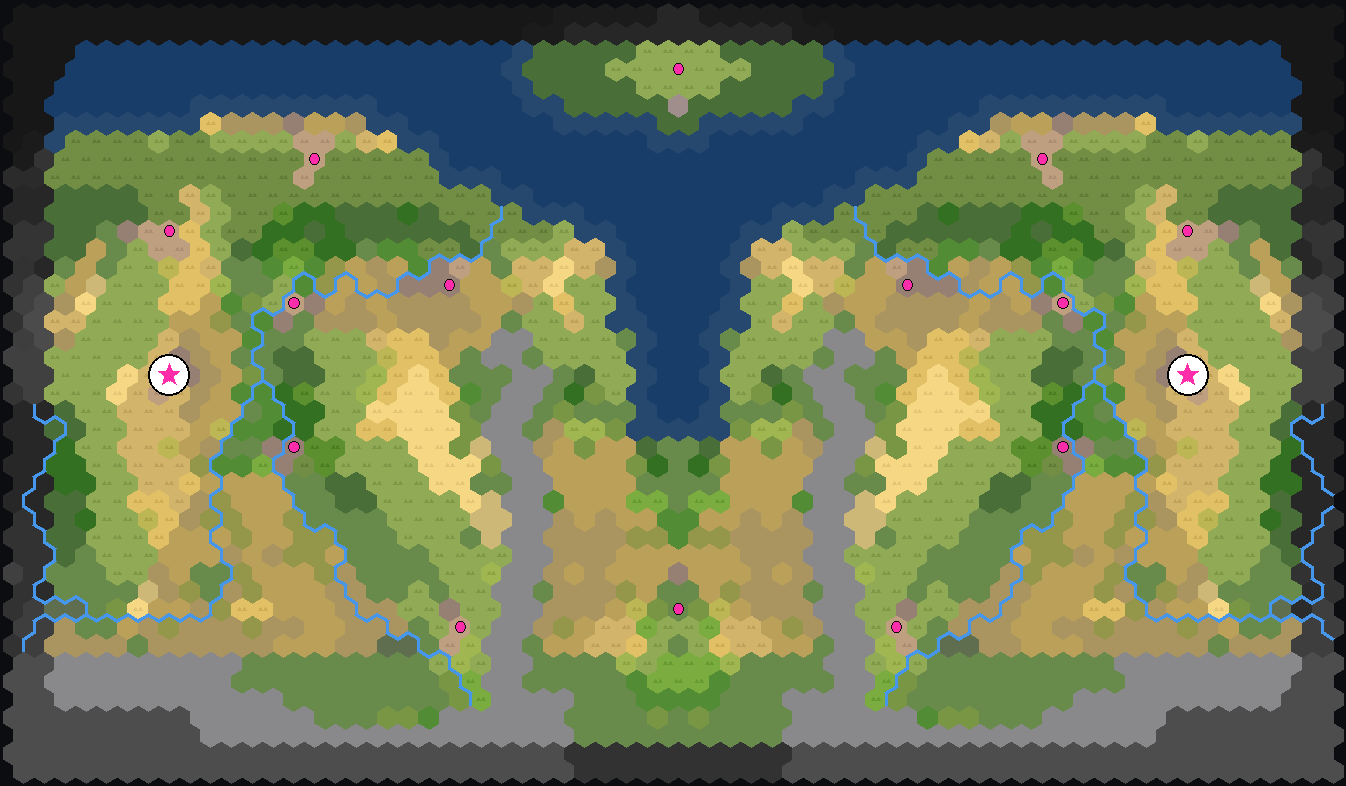
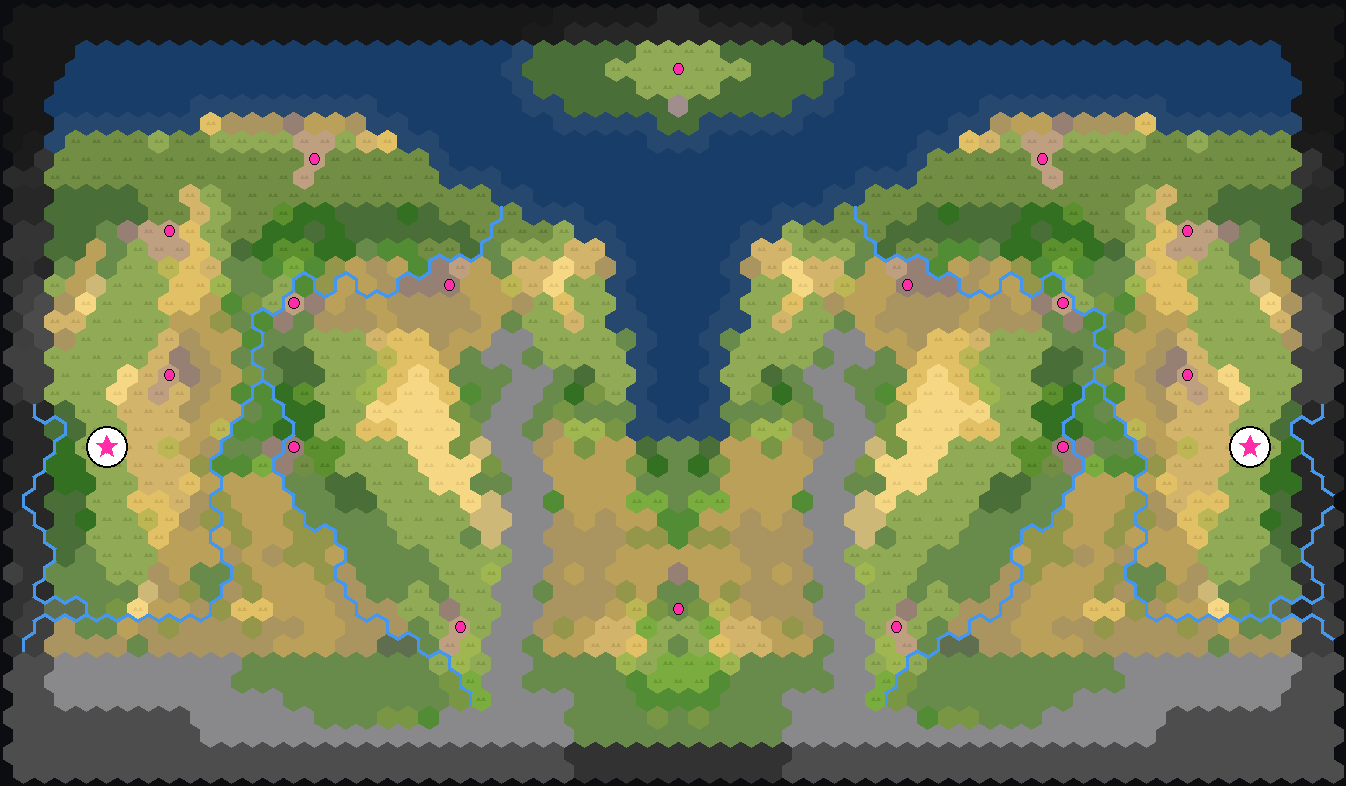
Fix in-game map generation failure: impossible IsValidPlayerStart
The previous commit required player starts to land ON an existing city
site. But DefaultMapScript.IsValidPlayerStart itself calls
IsValidCitySite, which rejects tiles that already HAVE a site — the two
conditions are mutually exclusive, so no tile on the map was a valid
start and in-game generation failed every time ('Failed to generate
map'). owmapgen's start-placement path doesn't consult the hook, which
hid the bug locally. The hook now only rejects island/corridor tiles.

diff --git a/atlas/index.html b/atlas/index.html
@@ -34,7 +34,7 @@ h1 { margin: 0 0 4px; font: 600 18px/1.2 ui-monospace, Menlo, monospace;
 <header><h1>Caldera Bay — Climate Atlas</h1>
 <div class="sub">8 Mediterranean · 8 Temperate · 8 Northern (same seeds 1–8 per regime) ·
 <code>Climate (latitude)</code> map option</div></header>
-<h2 class="section">Mediterranean (warm) — 8 gens</h2><div class="grid"><div class="card"><img src="maps/Caldera_Bay_smallest_Mediterranean-1.png" loading="lazy"><div class="meta"><div class="seed">seed Mediterranean-1</div><div class="chips"><span class="chip">64×43</span><span class="chip">14% flat-lush</span><span class="chip">water 653</span><span class="chip">mtn 395</span><span class="chip bad">rivers 179</span><span class="chip bad">forest 409</span><span class="chip ok">2 starts</span><span class="chip ok">mirror-sym</span><span class="chip">sites 16</span><span class="chip">tribes 12</span><span class="chip">res 84</span></div></div></div><div class="card"><img src="maps/Caldera_Bay_smallest_Mediterranean-2.png" loading="lazy"><div class="meta"><div class="seed">seed Mediterranean-2</div><div class="chips"><span class="chip">64×43</span><span class="chip">10% flat-lush</span><span class="chip">water 547</span><span class="chip">mtn 359</span><span class="chip bad">rivers 215</span><span class="chip bad">forest 408</span><span class="chip ok">2 starts</span><span class="chip ok">mirror-sym</span><span class="chip">sites 16</span><span class="chip">tribes 12</span><span class="chip">res 90</span></div></div></div><div class="card"><img src="maps/Caldera_Bay_smallest_Mediterranean-3.png" loading="lazy"><div class="meta"><div class="seed">seed Mediterranean-3</div><div class="chips"><span class="chip">64×43</span><span class="chip">18% flat-lush</span><span class="chip">water 600</span><span class="chip">mtn 309</span><span class="chip bad">rivers 174</span><span class="chip bad">forest 293</span><span class="chip ok">2 starts</span><span class="chip ok">mirror-sym</span><span class="chip">sites 14</span><span class="chip">tribes 10</span><span class="chip">res 96</span></div></div></div><div class="card"><img src="maps/Caldera_Bay_smallest_Mediterranean-4.png" loading="lazy"><div class="meta"><div class="seed">seed Mediterranean-4</div><div class="chips"><span class="chip">64×43</span><span class="chip">12% flat-lush</span><span class="chip">water 512</span><span class="chip">mtn 422</span><span class="chip bad">rivers 218</span><span class="chip bad">forest 390</span><span class="chip ok">2 starts</span><span class="chip ok">mirror-sym</span><span class="chip">sites 16</span><span class="chip">tribes 12</span><span class="chip">res 126</span></div></div></div><div class="card"><img src="maps/Caldera_Bay_smallest_Mediterranean-5.png" loading="lazy"><div class="meta"><div class="seed">seed Mediterranean-5</div><div class="chips"><span class="chip">64×43</span><span class="chip">9% flat-lush</span><span class="chip">water 607</span><span class="chip">mtn 385</span><span class="chip bad">rivers 218</span><span class="chip bad">forest 406</span><span class="chip ok">2 starts</span><span class="chip ok">mirror-sym</span><span class="chip">sites 16</span><span class="chip">tribes 12</span><span class="chip">res 88</span></div></div></div><div class="card"><img src="maps/Caldera_Bay_smallest_Mediterranean-6.png" loading="lazy"><div class="meta"><div class="seed">seed Mediterranean-6</div><div class="chips"><span class="chip">64×43</span><span class="chip">13% flat-lush</span><span class="chip">water 534</span><span class="chip">mtn 309</span><span class="chip bad">rivers 229</span><span class="chip bad">forest 363</span><span class="chip ok">2 starts</span><span class="chip ok">mirror-sym</span><span class="chip">sites 16</span><span class="chip">tribes 12</span><span class="chip">res 115</span></div></div></div><div class="card"><img src="maps/Caldera_Bay_smallest_Mediterranean-7.png" loading="lazy"><div class="meta"><div class="seed">seed Mediterranean-7</div><div class="chips"><span class="chip">64×43</span><span class="chip">17% flat-lush</span><span class="chip">water 543</span><span class="chip">mtn 311</span><span class="chip bad">rivers 218</span><span class="chip bad">forest 368</span><span class="chip ok">2 starts</span><span class="chip ok">mirror-sym</span><span class="chip">sites 16</span><span class="chip">tribes 12</span><span class="chip">res 114</span></div></div></div><div class="card"><img src="maps/Caldera_Bay_smallest_Mediterranean-8.png" loading="lazy"><div class="meta"><div class="seed">seed Mediterranean-8</div><div class="chips"><span class="chip">64×43</span><span class="chip">13% flat-lush</span><span class="chip">water 610</span><span class="chip">mtn 373</span><span class="chip bad">rivers 186</span><span class="chip bad">forest 318</span><span class="chip ok">2 starts</span><span class="chip ok">mirror-sym</span><span class="chip">sites 16</span><span class="chip">tribes 12</span><span class="chip">res 92</span></div></div></div></div><h2 class="section">Temperate — 8 gens</h2><div class="grid"><div class="card"><img src="maps/Caldera_Bay_smallest_Temperate-1.png" loading="lazy"><div class="meta"><div class="seed">seed Temperate-1</div><div class="chips"><span class="chip">64×43</span><span class="chip">15% flat-lush</span><span class="chip">water 653</span><span class="chip">mtn 395</span><span class="chip bad">rivers 179</span><span class="chip bad">forest 455</span><span class="chip ok">2 starts</span><span class="chip ok">mirror-sym</span><span class="chip">sites 16</span><span class="chip">tribes 12</span><span class="chip">res 84</span></div></div></div><div class="card"><img src="maps/Caldera_Bay_smallest_Temperate-2.png" loading="lazy"><div class="meta"><div class="seed">seed Temperate-2</div><div class="chips"><span class="chip">64×43</span><span class="chip">12% flat-lush</span><span class="chip">water 547</span><span class="chip">mtn 359</span><span class="chip bad">rivers 215</span><span class="chip bad">forest 495</span><span class="chip ok">2 starts</span><span class="chip ok">mirror-sym</span><span class="chip">sites 16</span><span class="chip">tribes 12</span><span class="chip">res 102</span></div></div></div><div class="card"><img src="maps/Caldera_Bay_smallest_Temperate-3.png" loading="lazy"><div class="meta"><div class="seed">seed Temperate-3</div><div class="chips"><span class="chip">64×43</span><span class="chip">18% flat-lush</span><span class="chip">water 600</span><span class="chip">mtn 311</span><span class="chip bad">rivers 174</span><span class="chip bad">forest 297</span><span class="chip ok">2 starts</span><span class="chip ok">mirror-sym</span><span class="chip">sites 16</span><span class="chip">tribes 12</span><span class="chip">res 98</span></div></div></div><div class="card"><img src="maps/Caldera_Bay_smallest_Temperate-4.png" loading="lazy"><div class="meta"><div class="seed">seed Temperate-4</div><div class="chips"><span class="chip">64×43</span><span class="chip">12% flat-lush</span><span class="chip">water 512</span><span class="chip">mtn 422</span><span class="chip bad">rivers 218</span><span class="chip bad">forest 425</span><span class="chip ok">2 starts</span><span class="chip ok">mirror-sym</span><span class="chip">sites 16</span><span class="chip">tribes 12</span><span class="chip">res 119</span></div></div></div><div class="card"><img src="maps/Caldera_Bay_smallest_Temperate-5.png" loading="lazy"><div class="meta"><div class="seed">seed Temperate-5</div><div class="chips"><span class="chip">64×43</span><span class="chip">9% flat-lush</span><span class="chip">water 607</span><span class="chip">mtn 385</span><span class="chip bad">rivers 218</span><span class="chip bad">forest 485</span><span class="chip ok">2 starts</span><span class="chip ok">mirror-sym</span><span class="chip">sites 16</span><span class="chip">tribes 12</span><span class="chip">res 113</span></div></div></div><div class="card"><img src="maps/Caldera_Bay_smallest_Temperate-6.png" loading="lazy"><div class="meta"><div class="seed">seed Temperate-6</div><div class="chips"><span class="chip">64×43</span><span class="chip">14% flat-lush</span><span class="chip">water 534</span><span class="chip">mtn 309</span><span class="chip bad">rivers 229</span><span class="chip bad">forest 392</span><span class="chip ok">2 starts</span><span class="chip ok">mirror-sym</span><span class="chip">sites 16</span><span class="chip">tribes 12</span><span class="chip">res 108</span></div></div></div><div class="card"><img src="maps/Caldera_Bay_smallest_Temperate-7.png" loading="lazy"><div class="meta"><div class="seed">seed Temperate-7</div><div class="chips"><span class="chip">64×43</span><span class="chip">18% flat-lush</span><span class="chip">water 543</span><span class="chip">mtn 311</span><span class="chip bad">rivers 218</span><span class="chip bad">forest 382</span><span class="chip ok">2 starts</span><span class="chip ok">mirror-sym</span><span class="chip">sites 16</span><span class="chip">tribes 12</span><span class="chip">res 107</span></div></div></div><div class="card"><img src="maps/Caldera_Bay_smallest_Temperate-8.png" loading="lazy"><div class="meta"><div class="seed">seed Temperate-8</div><div class="chips"><span class="chip">64×43</span><span class="chip">14% flat-lush</span><span class="chip">water 610</span><span class="chip">mtn 375</span><span class="chip bad">rivers 186</span><span class="chip bad">forest 372</span><span class="chip ok">2 starts</span><span class="chip ok">mirror-sym</span><span class="chip">sites 16</span><span class="chip">tribes 12</span><span class="chip">res 110</span></div></div></div></div><h2 class="section">Northern (cold) — 8 gens</h2><div class="grid"><div class="card"><img src="maps/Caldera_Bay_smallest_Northern-1.png" loading="lazy"><div class="meta"><div class="seed">seed Northern-1</div><div class="chips"><span class="chip">64×43</span><span class="chip">14% flat-lush</span><span class="chip">water 653</span><span class="chip">mtn 395</span><span class="chip bad">rivers 179</span><span class="chip bad">forest 443</span><span class="chip ok">2 starts</span><span class="chip ok">mirror-sym</span><span class="chip">sites 16</span><span class="chip">tribes 12</span><span class="chip">res 115</span></div></div></div><div class="card"><img src="maps/Caldera_Bay_smallest_Northern-2.png" loading="lazy"><div class="meta"><div class="seed">seed Northern-2</div><div class="chips"><span class="chip">64×43</span><span class="chip">8% flat-lush</span><span class="chip">water 547</span><span class="chip">mtn 359</span><span class="chip bad">rivers 215</span><span class="chip bad">forest 501</span><span class="chip ok">2 starts</span><span class="chip ok">mirror-sym</span><span class="chip">sites 16</span><span class="chip">tribes 12</span><span class="chip">res 88</span></div></div></div><div class="card"><img src="maps/Caldera_Bay_smallest_Northern-3.png" loading="lazy"><div class="meta"><div class="seed">seed Northern-3</div><div class="chips"><span class="chip">64×43</span><span class="chip">18% flat-lush</span><span class="chip">water 600</span><span class="chip">mtn 309</span><span class="chip bad">rivers 174</span><span class="chip bad">forest 291</span><span class="chip ok">2 starts</span><span class="chip ok">mirror-sym</span><span class="chip">sites 16</span><span class="chip">tribes 12</span><span class="chip">res 114</span></div></div></div><div class="card"><img src="maps/Caldera_Bay_smallest_Northern-4.png" loading="lazy"><div class="meta"><div class="seed">seed Northern-4</div><div class="chips"><span class="chip">64×43</span><span class="chip">12% flat-lush</span><span class="chip">water 512</span><span class="chip">mtn 422</span><span class="chip bad">rivers 218</span><span class="chip bad">forest 425</span><span class="chip ok">2 starts</span><span class="chip ok">mirror-sym</span><span class="chip">sites 16</span><span class="chip">tribes 12</span><span class="chip">res 104</span></div></div></div><div class="card"><img src="maps/Caldera_Bay_smallest_Northern-5.png" loading="lazy"><div class="meta"><div class="seed">seed Northern-5</div><div class="chips"><span class="chip">64×43</span><span class="chip">9% flat-lush</span><span class="chip">water 607</span><span class="chip">mtn 385</span><span class="chip bad">rivers 218</span><span class="chip bad">forest 465</span><span class="chip ok">2 starts</span><span class="chip ok">mirror-sym</span><span class="chip">sites 16</span><span class="chip">tribes 12</span><span class="chip">res 108</span></div></div></div><div class="card"><img src="maps/Caldera_Bay_smallest_Northern-6.png" loading="lazy"><div class="meta"><div class="seed">seed Northern-6</div><div class="chips"><span class="chip">64×43</span><span class="chip">13% flat-lush</span><span class="chip">water 534</span><span class="chip">mtn 309</span><span class="chip bad">rivers 229</span><span class="chip bad">forest 390</span><span class="chip ok">2 starts</span><span class="chip ok">mirror-sym</span><span class="chip">sites 16</span><span class="chip">tribes 12</span><span class="chip">res 125</span></div></div></div><div class="card"><img src="maps/Caldera_Bay_smallest_Northern-7.png" loading="lazy"><div class="meta"><div class="seed">seed Northern-7</div><div class="chips"><span class="chip">64×43</span><span class="chip">17% flat-lush</span><span class="chip">water 543</span><span class="chip">mtn 311</span><span class="chip bad">rivers 218</span><span class="chip bad">forest 366</span><span class="chip ok">2 starts</span><span class="chip ok">mirror-sym</span><span class="chip">sites 16</span><span class="chip">tribes 12</span><span class="chip">res 118</span></div></div></div><div class="card"><img src="maps/Caldera_Bay_smallest_Northern-8.png" loading="lazy"><div class="meta"><div class="seed">seed Northern-8</div><div class="chips"><span class="chip">64×43</span><span class="chip">13% flat-lush</span><span class="chip">water 610</span><span class="chip">mtn 375</span><span class="chip bad">rivers 186</span><span class="chip bad">forest 358</span><span class="chip ok">2 starts</span><span class="chip ok">mirror-sym</span><span class="chip">sites 16</span><span class="chip">tribes 12</span><span class="chip">res 111</span></div></div></div></div>
+<h2 class="section">Mediterranean (warm) — 8 gens</h2><div class="grid"><div class="card"><img src="maps/Caldera_Bay_smallest_Mediterranean-1.png" loading="lazy"><div class="meta"><div class="seed">seed Mediterranean-1</div><div class="chips"><span class="chip">64×43</span><span class="chip">14% flat-lush</span><span class="chip">water 653</span><span class="chip">mtn 395</span><span class="chip bad">rivers 179</span><span class="chip bad">forest 409</span><span class="chip ok">2 starts</span><span class="chip ok">mirror-sym</span><span class="chip">sites 18</span><span class="chip">tribes 12</span><span class="chip">res 84</span></div></div></div><div class="card"><img src="maps/Caldera_Bay_smallest_Mediterranean-2.png" loading="lazy"><div class="meta"><div class="seed">seed Mediterranean-2</div><div class="chips"><span class="chip">64×43</span><span class="chip">10% flat-lush</span><span class="chip">water 547</span><span class="chip">mtn 359</span><span class="chip bad">rivers 215</span><span class="chip bad">forest 408</span><span class="chip ok">2 starts</span><span class="chip ok">mirror-sym</span><span class="chip">sites 16</span><span class="chip">tribes 12</span><span class="chip">res 90</span></div></div></div><div class="card"><img src="maps/Caldera_Bay_smallest_Mediterranean-3.png" loading="lazy"><div class="meta"><div class="seed">seed Mediterranean-3</div><div class="chips"><span class="chip">64×43</span><span class="chip">18% flat-lush</span><span class="chip">water 600</span><span class="chip">mtn 309</span><span class="chip bad">rivers 174</span><span class="chip bad">forest 293</span><span class="chip ok">2 starts</span><span class="chip ok">mirror-sym</span><span class="chip">sites 16</span><span class="chip">tribes 10</span><span class="chip">res 96</span></div></div></div><div class="card"><img src="maps/Caldera_Bay_smallest_Mediterranean-4.png" loading="lazy"><div class="meta"><div class="seed">seed Mediterranean-4</div><div class="chips"><span class="chip">64×43</span><span class="chip">12% flat-lush</span><span class="chip">water 512</span><span class="chip">mtn 422</span><span class="chip bad">rivers 218</span><span class="chip bad">forest 390</span><span class="chip ok">2 starts</span><span class="chip ok">mirror-sym</span><span class="chip">sites 18</span><span class="chip">tribes 12</span><span class="chip">res 126</span></div></div></div><div class="card"><img src="maps/Caldera_Bay_smallest_Mediterranean-5.png" loading="lazy"><div class="meta"><div class="seed">seed Mediterranean-5</div><div class="chips"><span class="chip">64×43</span><span class="chip">9% flat-lush</span><span class="chip">water 607</span><span class="chip">mtn 385</span><span class="chip bad">rivers 218</span><span class="chip bad">forest 406</span><span class="chip ok">2 starts</span><span class="chip ok">mirror-sym</span><span class="chip">sites 16</span><span class="chip">tribes 12</span><span class="chip">res 88</span></div></div></div><div class="card"><img src="maps/Caldera_Bay_smallest_Mediterranean-6.png" loading="lazy"><div class="meta"><div class="seed">seed Mediterranean-6</div><div class="chips"><span class="chip">64×43</span><span class="chip">13% flat-lush</span><span class="chip">water 534</span><span class="chip">mtn 309</span><span class="chip bad">rivers 229</span><span class="chip bad">forest 363</span><span class="chip ok">2 starts</span><span class="chip ok">mirror-sym</span><span class="chip">sites 16</span><span class="chip">tribes 12</span><span class="chip">res 115</span></div></div></div><div class="card"><img src="maps/Caldera_Bay_smallest_Mediterranean-7.png" loading="lazy"><div class="meta"><div class="seed">seed Mediterranean-7</div><div class="chips"><span class="chip">64×43</span><span class="chip">17% flat-lush</span><span class="chip">water 543</span><span class="chip">mtn 311</span><span class="chip bad">rivers 218</span><span class="chip bad">forest 368</span><span class="chip ok">2 starts</span><span class="chip ok">mirror-sym</span><span class="chip">sites 16</span><span class="chip">tribes 12</span><span class="chip">res 114</span></div></div></div><div class="card"><img src="maps/Caldera_Bay_smallest_Mediterranean-8.png" loading="lazy"><div class="meta"><div class="seed">seed Mediterranean-8</div><div class="chips"><span class="chip">64×43</span><span class="chip">13% flat-lush</span><span class="chip">water 610</span><span class="chip">mtn 373</span><span class="chip bad">rivers 186</span><span class="chip bad">forest 318</span><span class="chip ok">2 starts</span><span class="chip ok">mirror-sym</span><span class="chip">sites 18</span><span class="chip">tribes 12</span><span class="chip">res 92</span></div></div></div></div><h2 class="section">Temperate — 8 gens</h2><div class="grid"><div class="card"><img src="maps/Caldera_Bay_smallest_Temperate-1.png" loading="lazy"><div class="meta"><div class="seed">seed Temperate-1</div><div class="chips"><span class="chip">64×43</span><span class="chip">15% flat-lush</span><span class="chip">water 653</span><span class="chip">mtn 395</span><span class="chip bad">rivers 179</span><span class="chip bad">forest 455</span><span class="chip ok">2 starts</span><span class="chip ok">mirror-sym</span><span class="chip">sites 16</span><span class="chip">tribes 12</span><span class="chip">res 84</span></div></div></div><div class="card"><img src="maps/Caldera_Bay_smallest_Temperate-2.png" loading="lazy"><div class="meta"><div class="seed">seed Temperate-2</div><div class="chips"><span class="chip">64×43</span><span class="chip">12% flat-lush</span><span class="chip">water 547</span><span class="chip">mtn 359</span><span class="chip bad">rivers 215</span><span class="chip bad">forest 495</span><span class="chip ok">2 starts</span><span class="chip ok">mirror-sym</span><span class="chip">sites 16</span><span class="chip">tribes 12</span><span class="chip">res 102</span></div></div></div><div class="card"><img src="maps/Caldera_Bay_smallest_Temperate-3.png" loading="lazy"><div class="meta"><div class="seed">seed Temperate-3</div><div class="chips"><span class="chip">64×43</span><span class="chip">18% flat-lush</span><span class="chip">water 600</span><span class="chip">mtn 311</span><span class="chip bad">rivers 174</span><span class="chip bad">forest 297</span><span class="chip ok">2 starts</span><span class="chip ok">mirror-sym</span><span class="chip">sites 18</span><span class="chip">tribes 12</span><span class="chip">res 98</span></div></div></div><div class="card"><img src="maps/Caldera_Bay_smallest_Temperate-4.png" loading="lazy"><div class="meta"><div class="seed">seed Temperate-4</div><div class="chips"><span class="chip">64×43</span><span class="chip">12% flat-lush</span><span class="chip">water 512</span><span class="chip">mtn 422</span><span class="chip bad">rivers 218</span><span class="chip bad">forest 425</span><span class="chip ok">2 starts</span><span class="chip ok">mirror-sym</span><span class="chip">sites 16</span><span class="chip">tribes 12</span><span class="chip">res 119</span></div></div></div><div class="card"><img src="maps/Caldera_Bay_smallest_Temperate-5.png" loading="lazy"><div class="meta"><div class="seed">seed Temperate-5</div><div class="chips"><span class="chip">64×43</span><span class="chip">9% flat-lush</span><span class="chip">water 607</span><span class="chip">mtn 385</span><span class="chip bad">rivers 218</span><span class="chip bad">forest 485</span><span class="chip ok">2 starts</span><span class="chip ok">mirror-sym</span><span class="chip">sites 16</span><span class="chip">tribes 12</span><span class="chip">res 113</span></div></div></div><div class="card"><img src="maps/Caldera_Bay_smallest_Temperate-6.png" loading="lazy"><div class="meta"><div class="seed">seed Temperate-6</div><div class="chips"><span class="chip">64×43</span><span class="chip">14% flat-lush</span><span class="chip">water 534</span><span class="chip">mtn 309</span><span class="chip bad">rivers 229</span><span class="chip bad">forest 392</span><span class="chip ok">2 starts</span><span class="chip ok">mirror-sym</span><span class="chip">sites 18</span><span class="chip">tribes 12</span><span class="chip">res 108</span></div></div></div><div class="card"><img src="maps/Caldera_Bay_smallest_Temperate-7.png" loading="lazy"><div class="meta"><div class="seed">seed Temperate-7</div><div class="chips"><span class="chip">64×43</span><span class="chip">18% flat-lush</span><span class="chip">water 543</span><span class="chip">mtn 311</span><span class="chip bad">rivers 218</span><span class="chip bad">forest 382</span><span class="chip ok">2 starts</span><span class="chip ok">mirror-sym</span><span class="chip">sites 16</span><span class="chip">tribes 12</span><span class="chip">res 107</span></div></div></div><div class="card"><img src="maps/Caldera_Bay_smallest_Temperate-8.png" loading="lazy"><div class="meta"><div class="seed">seed Temperate-8</div><div class="chips"><span class="chip">64×43</span><span class="chip">14% flat-lush</span><span class="chip">water 610</span><span class="chip">mtn 375</span><span class="chip bad">rivers 186</span><span class="chip bad">forest 372</span><span class="chip ok">2 starts</span><span class="chip ok">mirror-sym</span><span class="chip">sites 16</span><span class="chip">tribes 12</span><span class="chip">res 110</span></div></div></div></div><h2 class="section">Northern (cold) — 8 gens</h2><div class="grid"><div class="card"><img src="maps/Caldera_Bay_smallest_Northern-1.png" loading="lazy"><div class="meta"><div class="seed">seed Northern-1</div><div class="chips"><span class="chip">64×43</span><span class="chip">14% flat-lush</span><span class="chip">water 653</span><span class="chip">mtn 395</span><span class="chip bad">rivers 179</span><span class="chip bad">forest 443</span><span class="chip ok">2 starts</span><span class="chip ok">mirror-sym</span><span class="chip">sites 18</span><span class="chip">tribes 12</span><span class="chip">res 115</span></div></div></div><div class="card"><img src="maps/Caldera_Bay_smallest_Northern-2.png" loading="lazy"><div class="meta"><div class="seed">seed Northern-2</div><div class="chips"><span class="chip">64×43</span><span class="chip">8% flat-lush</span><span class="chip">water 547</span><span class="chip">mtn 359</span><span class="chip bad">rivers 215</span><span class="chip bad">forest 501</span><span class="chip ok">2 starts</span><span class="chip ok">mirror-sym</span><span class="chip">sites 18</span><span class="chip">tribes 12</span><span class="chip">res 88</span></div></div></div><div class="card"><img src="maps/Caldera_Bay_smallest_Northern-3.png" loading="lazy"><div class="meta"><div class="seed">seed Northern-3</div><div class="chips"><span class="chip">64×43</span><span class="chip">18% flat-lush</span><span class="chip">water 600</span><span class="chip">mtn 309</span><span class="chip bad">rivers 174</span><span class="chip bad">forest 291</span><span class="chip ok">2 starts</span><span class="chip ok">mirror-sym</span><span class="chip">sites 16</span><span class="chip">tribes 12</span><span class="chip">res 114</span></div></div></div><div class="card"><img src="maps/Caldera_Bay_smallest_Northern-4.png" loading="lazy"><div class="meta"><div class="seed">seed Northern-4</div><div class="chips"><span class="chip">64×43</span><span class="chip">12% flat-lush</span><span class="chip">water 512</span><span class="chip">mtn 422</span><span class="chip bad">rivers 218</span><span class="chip bad">forest 425</span><span class="chip ok">2 starts</span><span class="chip ok">mirror-sym</span><span class="chip">sites 18</span><span class="chip">tribes 12</span><span class="chip">res 104</span></div></div></div><div class="card"><img src="maps/Caldera_Bay_smallest_Northern-5.png" loading="lazy"><div class="meta"><div class="seed">seed Northern-5</div><div class="chips"><span class="chip">64×43</span><span class="chip">9% flat-lush</span><span class="chip">water 607</span><span class="chip">mtn 385</span><span class="chip bad">rivers 218</span><span class="chip bad">forest 465</span><span class="chip ok">2 starts</span><span class="chip ok">mirror-sym</span><span class="chip">sites 16</span><span class="chip">tribes 12</span><span class="chip">res 108</span></div></div></div><div class="card"><img src="maps/Caldera_Bay_smallest_Northern-6.png" loading="lazy"><div class="meta"><div class="seed">seed Northern-6</div><div class="chips"><span class="chip">64×43</span><span class="chip">13% flat-lush</span><span class="chip">water 534</span><span class="chip">mtn 309</span><span class="chip bad">rivers 229</span><span class="chip bad">forest 390</span><span class="chip ok">2 starts</span><span class="chip ok">mirror-sym</span><span class="chip">sites 18</span><span class="chip">tribes 12</span><span class="chip">res 125</span></div></div></div><div class="card"><img src="maps/Caldera_Bay_smallest_Northern-7.png" loading="lazy"><div class="meta"><div class="seed">seed Northern-7</div><div class="chips"><span class="chip">64×43</span><span class="chip">17% flat-lush</span><span class="chip">water 543</span><span class="chip">mtn 311</span><span class="chip bad">rivers 218</span><span class="chip bad">forest 366</span><span class="chip ok">2 starts</span><span class="chip ok">mirror-sym</span><span class="chip">sites 16</span><span class="chip">tribes 12</span><span class="chip">res 118</span></div></div></div><div class="card"><img src="maps/Caldera_Bay_smallest_Northern-8.png" loading="lazy"><div class="meta"><div class="seed">seed Northern-8</div><div class="chips"><span class="chip">64×43</span><span class="chip">13% flat-lush</span><span class="chip">water 610</span><span class="chip">mtn 375</span><span class="chip bad">rivers 186</span><span class="chip bad">forest 358</span><span class="chip ok">2 starts</span><span class="chip ok">mirror-sym</span><span class="chip">sites 16</span><span class="chip">tribes 12</span><span class="chip">res 111</span></div></div></div></div>
 <div id="lb"><img alt=""></div>
 <script>
 const lb = document.getElementById('lb'), lbimg = lb.querySelector('img');

diff --git a/src/CalderaBay.cs b/src/CalderaBay.cs
@@ -857,9 +857,11 @@ namespace OwMapCreation
         {
             int x = TileX(tile), y = TileY(tile);
             if (OnIsland(x, y) || InsideSpurFrame(x, y)) return false;
-            // start ON an existing city site — otherwise start placement
-            // invents an extra site, inflating the free-site count per side
-            if (tile.CitySite.Equals(GetTile(0, 0).CitySite)) return false;
+            // NEVER require an existing city site here: the base check itself
+            // calls IsValidCitySite, which REJECTS occupied site tiles — the
+            // two conditions are mutually exclusive, so requiring a site made
+            // every tile invalid and the whole map failed to generate in-game
+            // (owmapgen's start path doesn't consult this hook, hiding it).
             return base.IsValidPlayerStart(tile, player, minTeamStartDistance);
         }
         // the corridor between the mirrored spurs is reserved for the TWO
